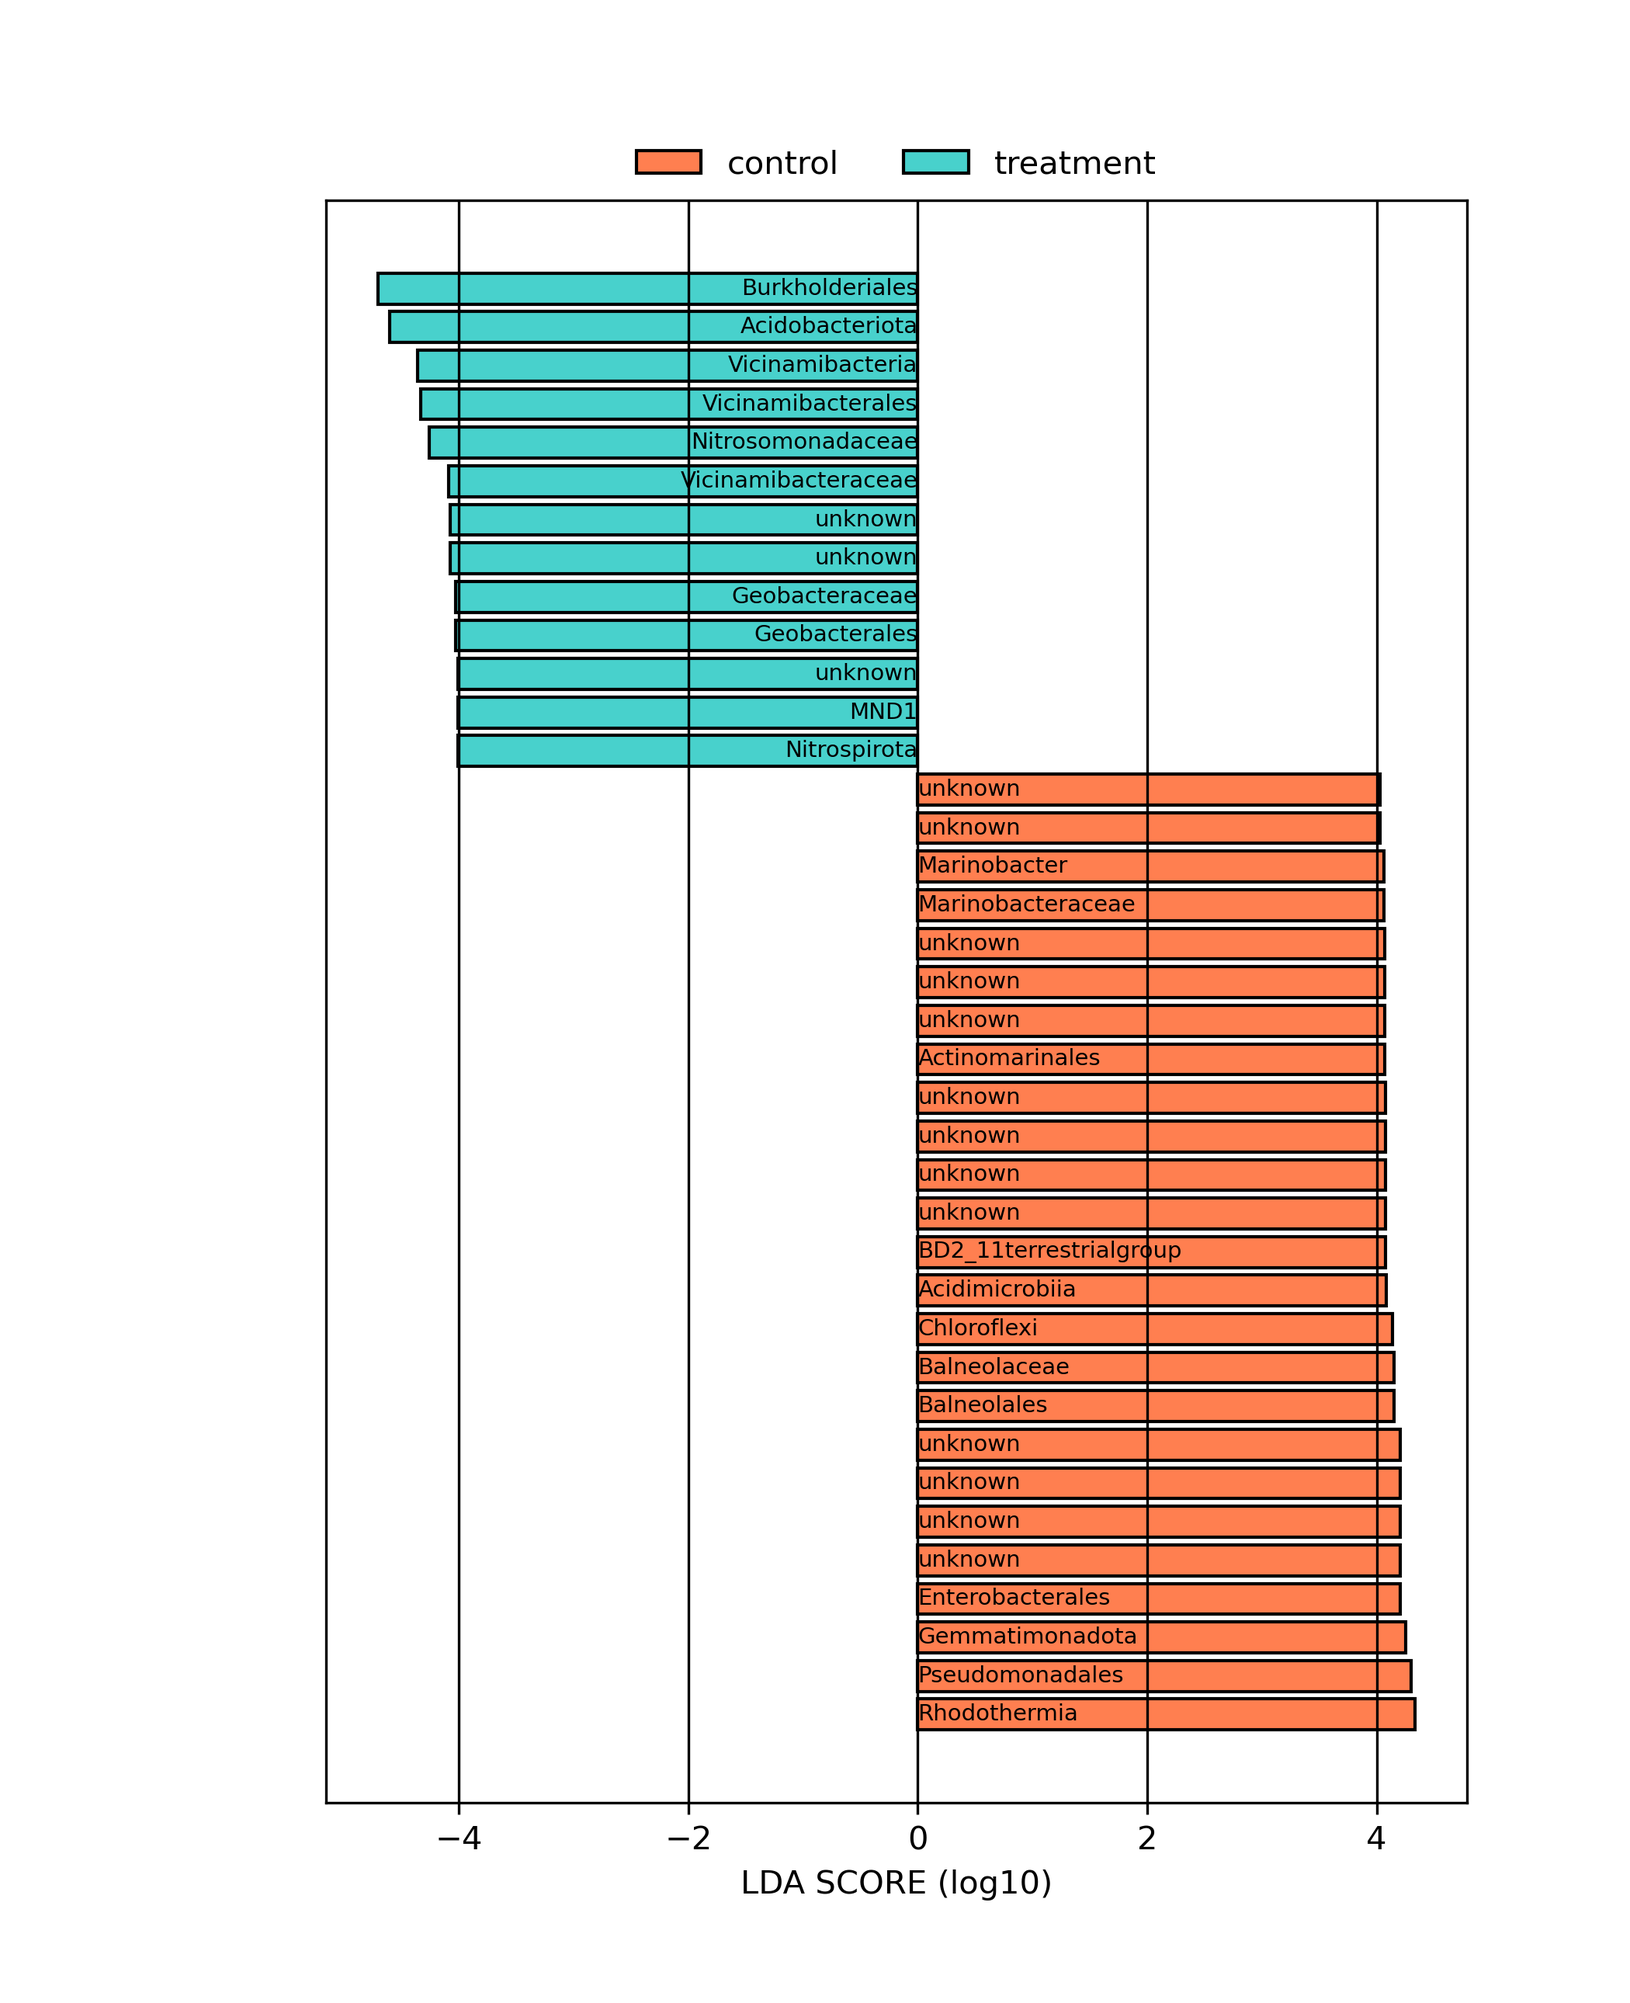
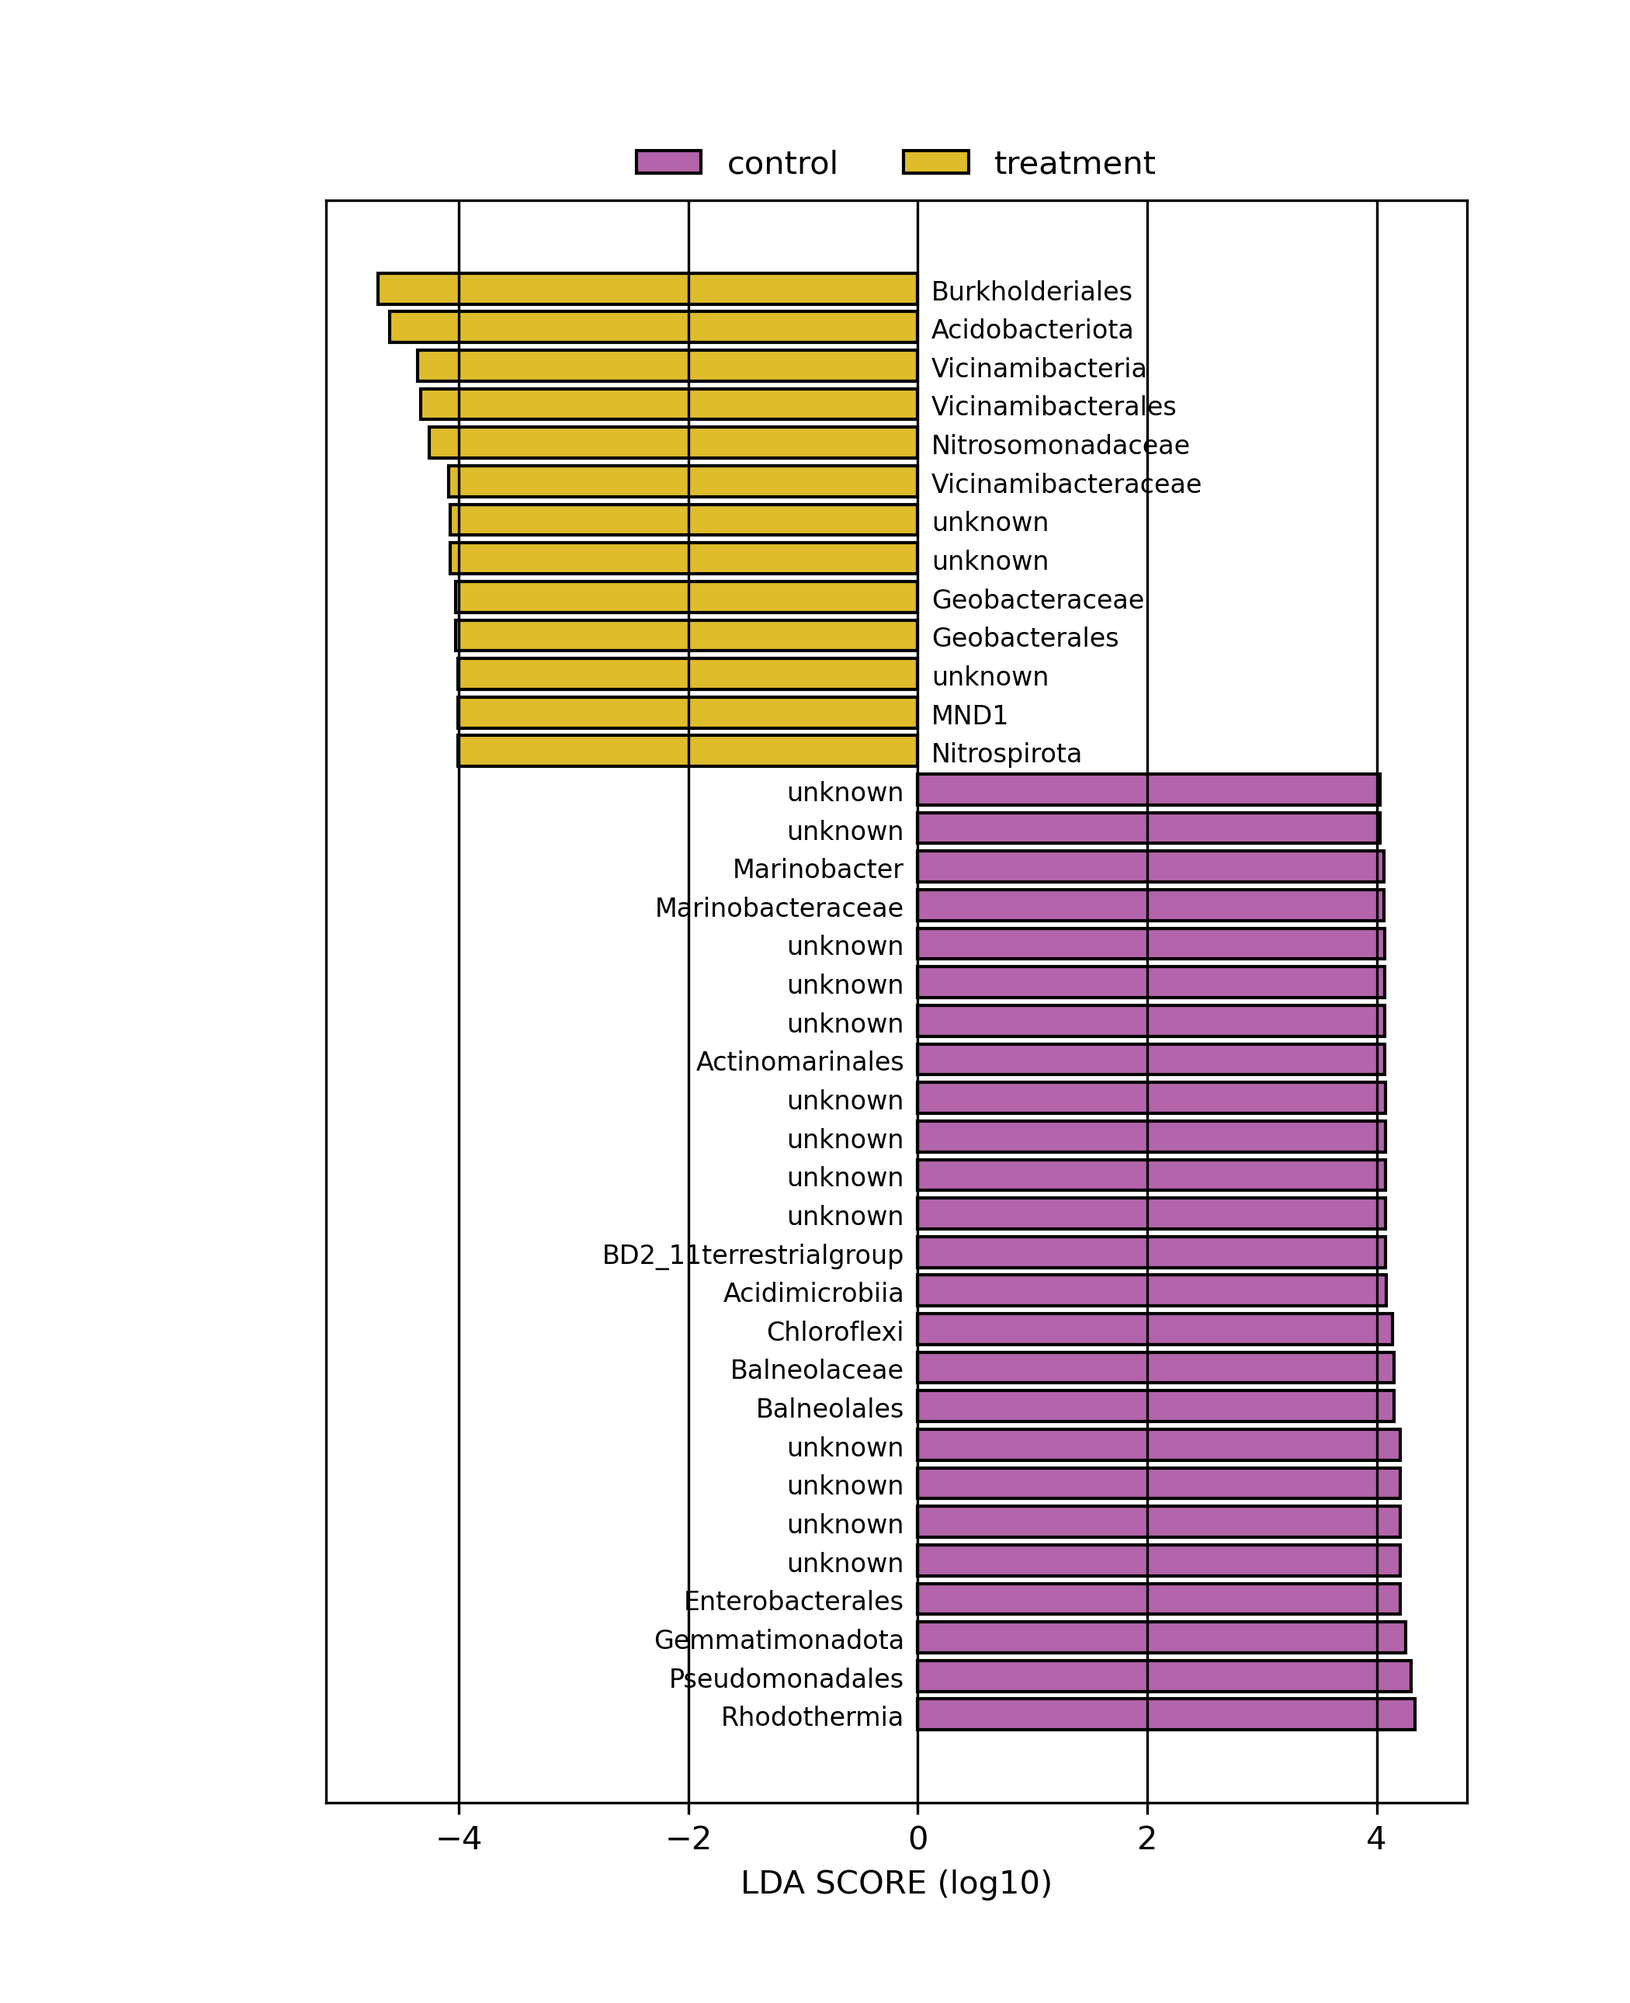
Initial commit: customized LEfSe Web App VER.2

diff --git a/lefse/lefse_plot_res.py b/lefse/lefse_plot_res.py
@@ -12,27 +12,23 @@ def read_params(args):
     parser = argparse.ArgumentParser(description='Plot LEfSe LDA results')
     parser.add_argument('input_file',  metavar='INPUT_FILE',  type=str, help="tab-delimited LEfSe result file")
     parser.add_argument('output_file', metavar='OUTPUT_FILE', type=str, help="output image path")
-    parser.add_argument('--title',                dest="title",                type=str,   default="",  help="Plot title")
-    parser.add_argument('--feature_font_size',    dest="feature_font_size",    type=int,   default=7)
-    parser.add_argument('--class_legend_font_size',dest="class_legend_font_size",type=int,  default=10)
-    parser.add_argument('--format',               dest="format",    choices=["png","svg","pdf"], default='png')
-    parser.add_argument('--dpi',                  dest="dpi",       type=int,   default=300)
-    parser.add_argument('--width',                dest="width",     type=float, default=7.0)
-    parser.add_argument('--height',               dest="height",    type=float, default=4.0)
-    parser.add_argument('--left_space',           dest="ls",        type=float, default=0.2)
-    parser.add_argument('--right_space',          dest="rs",        type=float, default=0.1)
-    parser.add_argument('--orientation',          dest="orientation",choices=["h","v"], default="h")
-    parser.add_argument('--autoscale',            dest="autoscale", choices=[0,1], default=1, type=int)
-    parser.add_argument('--background_color',     dest="back_color",choices=["k","w"], default="w")
-    parser.add_argument('--n_scl',                dest="n_scl",     type=int,   default=1,
-                        help="Number of leaf levels to show (1=last level only)")
-    parser.add_argument('--max_feature_len',      dest="max_feature_len", type=int, default=60)
-    parser.add_argument('--otu_only',             dest="otu_only", action='store_true',
-                        help="Plot only OTU-level features (length==8)")
-    parser.add_argument('--report_features',      dest="report_features", action='store_true',
-                        help="Print feature list (feature, LDA, class) to stdout")
-    parser.add_argument('--colors',               dest="colors",    type=str,   default="",
-                        help="Comma-separated color list for each class (in sorted order)")
+    parser.add_argument('--title', type=str, default="", help="Plot title")
+    parser.add_argument('--feature_font_size', type=int, default=7)
+    parser.add_argument('--class_legend_font_size', type=int, default=10)
+    parser.add_argument('--format', choices=["png","svg","pdf"], default='png')
+    parser.add_argument('--dpi', type=int, default=300)
+    parser.add_argument('--width', type=float, default=7.0)
+    parser.add_argument('--height', type=float, default=4.0)
+    parser.add_argument('--left_space', dest="ls", type=float, default=0.2)
+    parser.add_argument('--right_space', dest="rs", type=float, default=0.1)
+    parser.add_argument('--orientation', choices=["h","v"], default="h")
+    parser.add_argument('--autoscale', choices=[0,1], default=1, type=int)
+    parser.add_argument('--background_color', choices=["k","w"], default="w")
+    parser.add_argument('--n_scl', type=int, default=1)
+    parser.add_argument('--max_feature_len', type=int, default=60)
+    parser.add_argument('--otu_only', action='store_true')
+    parser.add_argument('--report_features', action='store_true')
+    parser.add_argument('--colors', type=str, default="")
     return vars(parser.parse_args())
 
 def read_data(input_file, otu_only):
@@ -44,40 +40,38 @@ def read_data(input_file, otu_only):
     return {'rows': lines, 'cls': classes}
 
 def get_color_map(classes, colors_arg):
-    # 如果用户传了 --colors，就用它
     if colors_arg:
         cols = [c.strip() for c in colors_arg.split(',')]
         if len(cols) != len(classes):
             raise ValueError(f"--colors 要求 {len(classes)} 个值，您给了 {len(cols)}")
         return dict(zip(classes, cols))
-    # 否则用 matplotlib 默认循环
     cycle = plt.rcParams['axes.prop_cycle'].by_key()['color']
     return {cls: cycle[i % len(cycle)] for i, cls in enumerate(classes)}
 
 def plot_hor(path, params, data):
     rows = data['rows']
     classes = data['cls']
+    if not rows:
+        print("[ERROR] No features to plot.")
+        return
+
+    print(f"[INFO] Plotting {len(rows)} features for classes: {classes}")
     two_class = len(classes) == 2
 
-    # 排序：如果双组，则根据方向画正负，否则统一正向并按 class 排序
     if two_class:
         rows.sort(key=lambda ab: abs(float(ab[3])) * (classes.index(ab[2])*2-1))
     else:
         mmax = max(abs(float(ab[3])) for ab in rows)
         rows.sort(key=lambda ab: abs(float(ab[3]))/mmax + (classes.index(ab[2])+1))
 
-    pos = list(range(len(rows)))
-    fig = plt.figure(
-        figsize=(params['width'], len(rows)*0.2 + 1.0),
-        facecolor=params['back_color'], edgecolor=params['back_color']
-    )
-    ax = fig.add_subplot(1,1,1, facecolor=params['back_color'])
+    fig = plt.figure(figsize=(params['width'], len(rows)*0.2 + 1.0),
+                     facecolor=params['background_color'], edgecolor=params['background_color'])
+    ax = fig.add_subplot(1,1,1, facecolor=params['background_color'])
     plt.subplots_adjust(left=params['ls'], right=1-params['rs'],
                         top=0.9, bottom=0.1)
 
     color_map = get_color_map(classes, params['colors'])
 
-    # 若要打印 feature 列表
     out_data = defaultdict(list)
 
     for i, row in enumerate(rows):
@@ -86,73 +80,86 @@ def plot_hor(path, params, data):
         if params['report_features']:
             out_data[feat] = [lda, grp]
 
-        col = color_map[grp]
-        val = score * ((-1) if (two_class and classes.index(grp)==1) else 1)
-        label = grp if (i==0 or rows[i-1][2] != grp) else ""
-        ax.barh(i, val,
-                color=col,
-                edgecolor=params['fore_color'],
-                height=0.8,
-                label=label)
+        try:
+            col = color_map[grp]
+            val = score * ((-1) if (two_class and classes.index(grp)==1) else 1)
+            label = grp if (i==0 or rows[i-1][2] != grp) else ""
+            ax.barh(i, val,
+                    color=col,
+                    edgecolor=params['fore_color'],
+                    height=0.8,
+                    label=label)
+        except Exception as e:
+            print(f"[ERROR] Failed to draw bar for {feat}: {e}")
 
     if params['report_features']:
         print("Feature\tLDA_score\tClass")
         for f, v in out_data.items():
             print(f"{f}\t{v[0]}\t{v[1]}")
 
-    # 在条形上写名字
-    for i, row in enumerate(rows):
-        feat = row[0]
+    mv = max([abs(float(v[3])) for v in rows])  # 最大的 LDA 值，供定位用
+
+    for i, r in enumerate(rows):
+        indcl = classes.index(r[2])
+        feat = r[0]
         parts = feat.split('.')
-        if params['n_scl'] > 0:
-            disp = parts[-params['n_scl']:]
-        else:
-            disp = parts
+        disp = parts[-params['n_scl']:] if params['n_scl'] > 0 else parts
         lbl = ".".join(disp)
         if len(lbl) > params['max_feature_len']:
-            lbl = lbl[:params['max_feature_len']//2] + "… " + lbl[-params['max_feature_len']//2:]
-        align = {'ha': 'left'} if two_class and (classes.index(row[2])==0) else {'ha': 'right'}
-        ax.text(0, i, lbl,
-                va='center',
-                color=params['fore_color'],
-                size=params['feature_font_size'],
-                **align)
+            lbl = lbl[:params['max_feature_len']//2 - 2] + " [..]" + lbl[-params['max_feature_len']//2 + 2:]
+
+        try:
+            lda_score = float(r[3])
+            sign = 1 if (classes.index(r[2]) == 0) else -1
+            if sign < 0:
+                ax.text(mv/40.0, float(i)-0.3, lbl,
+                        ha='left', va='baseline', color=params['fore_color'],
+                        size=params['feature_font_size'])
+            else:
+                ax.text(-mv/40.0, float(i)-0.3, lbl,
+                        ha='right', va='baseline', color=params['fore_color'],
+                        size=params['feature_font_size'])
+        except Exception as e:
+            print(f"[WARN] Failed to label {feat}: {e}")
+
 
     ax.set_yticks([])
     ax.set_xlabel("LDA SCORE (log10)", color=params['fore_color'])
     ax.xaxis.grid(True, color=params['fore_color'])
 
-    # 图例
-    handles, labels = ax.get_legend_handles_labels()
-    leg = ax.legend(handles, labels,
-                    ncol=len(classes),
-                    frameon=False,
-                    loc='upper center',
-                    bbox_to_anchor=(0.5,1.05),
-                    prop={'size': params['class_legend_font_size']})
-    for txt in leg.get_texts():
-        txt.set_color(params['fore_color'])
+    try:
+        handles, labels = ax.get_legend_handles_labels()
+        if handles and labels:
+            leg = ax.legend(handles, labels,
+                            ncol=len(classes),
+                            frameon=False,
+                            loc='upper center',
+                            bbox_to_anchor=(0.5,1.05),
+                            prop={'size': params['class_legend_font_size']})
+            for txt in leg.get_texts():
+                txt.set_color(params['fore_color'])
+    except Exception as e:
+        print(f"[WARN] Failed to create legend: {e}")
 
-    # 标题
     ax.set_title(params['title'], color=params['fore_color'])
 
-    # 保存
-    plt.savefig(path,
-                dpi=params['dpi'],
-                format=params['format'],
-                facecolor=params['back_color'],
-                edgecolor=params['fore_color'])
+    try:
+        plt.savefig(path,
+                    dpi=params['dpi'],
+                    format=params['format'],
+                    facecolor=params['background_color'],
+                    edgecolor=params['fore_color'])
+        print(f"[INFO] Barplot saved to: {path}")
+    except Exception as e:
+        print(f"[ERROR] Failed to save figure: {e}")
     plt.close()
 
 def plot_ver(path, params, data):
-    # 简化实现：纵向也调用横向，若需要可以专门重写
     plot_hor(path, params, data)
 
 def plot_res():
     params = read_params(sys.argv)
-    # 前景色（文字/边框）取反
-    params['fore_color'] = 'w' if params['back_color']=='k' else 'k'
-
+    params['fore_color'] = 'w' if params.get('background_color', 'w') == 'k' else 'k'
     data = read_data(params['input_file'], params['otu_only'])
 
     if params['orientation']=='h':

diff --git a/streamlit_lefse_app.py b/streamlit_lefse_app.py
@@ -17,10 +17,48 @@ with col1:
     class_row    = st.number_input("Class row index (1-based)", min_value=1, value=1)
     subclass_row = st.number_input("Subclass row index (0 to skip)", min_value=0, value=2)
     subject_row  = st.number_input("Subject row index (0 to skip)", min_value=0, value=0)
-    class_colors = st.text_input("Class colors (comma-separated)", value="coral,mediumturquoise")
 with col2:
     lda_th     = st.slider("LDA threshold", 0.0, 10.0, 2.0, 0.1)
     run_wilcox = st.checkbox("Run Wilcoxon test", value=True)
+
+
+
+
+# === 初始化顏色映射 ===
+if "class_colors_map" not in st.session_state:
+    st.session_state.class_colors_map = {}
+
+# === 讀入資料並抓取 class 名稱 ===
+try:
+    df_input = pd.read_csv(uploaded, sep="\t", index_col=0, header=None)
+    # 🧠 class_row 是 1-based index，因此要 -1
+    class_row_name = df_input.index[class_row - 1]
+    class_row_vals = df_input.loc[class_row_name]
+    class_row_vals.name = class_row_name  # 關鍵！正確標示 column 名
+    class_row_vals.index.name = "Sample"  # 樣本 ID 當 index
+
+except Exception as e:
+    st.warning(f"⚠ 無法讀取 class 名稱：{e}")
+    class_names = []
+    class_row_vals = pd.Series([])
+
+
+
+
+
+
+# ✅ 正確取出 class 名稱
+class_names = sorted(class_row_vals.dropna().unique().tolist())
+
+# === 顯示 class 顏色選擇器 ===
+st.markdown("🎨 選擇各個 class 的顏色：")
+for cls in class_names:
+    default_color = st.session_state.class_colors_map.get(cls, "#%06x" % (hash(cls) & 0xFFFFFF))
+    picked_color = st.color_picker(f"{cls}", default_color, key=f"color_{cls}")
+    st.session_state.class_colors_map[cls] = picked_color
+
+# === 整理為 --colors 字串格式 ===
+class_colors_str = ",".join(st.session_state.class_colors_map[c] for c in class_names)
 
 # === 點選分析 ===
 if st.button("Run LEfSe"):
@@ -56,7 +94,7 @@ if st.button("Run LEfSe"):
         st.error(f"❌ LEfSe failed:\n{lef.stderr}")
         st.stop()
 
-    # Step 3⃣: extract features.csv (raw from result.res)
+    # Step 3⃣: extract features.csv
     df = pd.read_csv(result_res, sep="\t", header=None)
     if df.shape[1] == 5:
         df.columns = ["feature", "LDA", "_", "class", "pvalue"]
@@ -70,10 +108,25 @@ if st.button("Run LEfSe"):
     bar_png = os.path.join(workdir, "barplot.png")
     cmd_bar = [
         sys.executable, "-m", "lefse.lefse_plot_res",
-        result_res, bar_png, "--dpi", "300", "--format", "png",
-        "--colors", class_colors
+        result_res, bar_png,
+        "--dpi", "300",
+        "--format", "png",
+        "--colors", class_colors_str,
+        "--title", "",                  # ✅ 必加
+        "--feature_font_size", "8",     # ✅ 依需求調整
+        "--class_legend_font_size", "10",
+        "--background_color", "w"  # ✅ 這一行是關鍵
     ]
-    subprocess.run(cmd_bar, capture_output=True, text=True)
+
+
+    bar = subprocess.run(cmd_bar, capture_output=True, text=True)
+    if bar.returncode != 0:
+        st.error("❌ Barplot generation failed")
+        st.text(bar.stderr)
+        st.stop()
+    else:
+        st.text("✅ barplot subprocess completed")
+        st.text(bar.stdout)
     if os.path.exists(bar_png):
         st.image(bar_png, caption="LDA Barplot", use_container_width=True)
         with open(bar_png, "rb") as f:
@@ -88,7 +141,7 @@ if st.button("Run LEfSe"):
         clad_png,
         "--dpi", "300",
         "--format", "png",
-        "--colors", class_colors
+        "--colors", class_colors_str
     ]
     clad = subprocess.run(cmd_clad, capture_output=True, text=True)
     if os.path.exists(clad_png):
@@ -106,7 +159,3 @@ if st.button("Run LEfSe"):
             st.download_button("📥 Download significant features", f, "significant_features_by_class.csv", key="dl_sig")
 
     st.success("✅ LEfSe Analysis Complete!")
-
-
-
-
